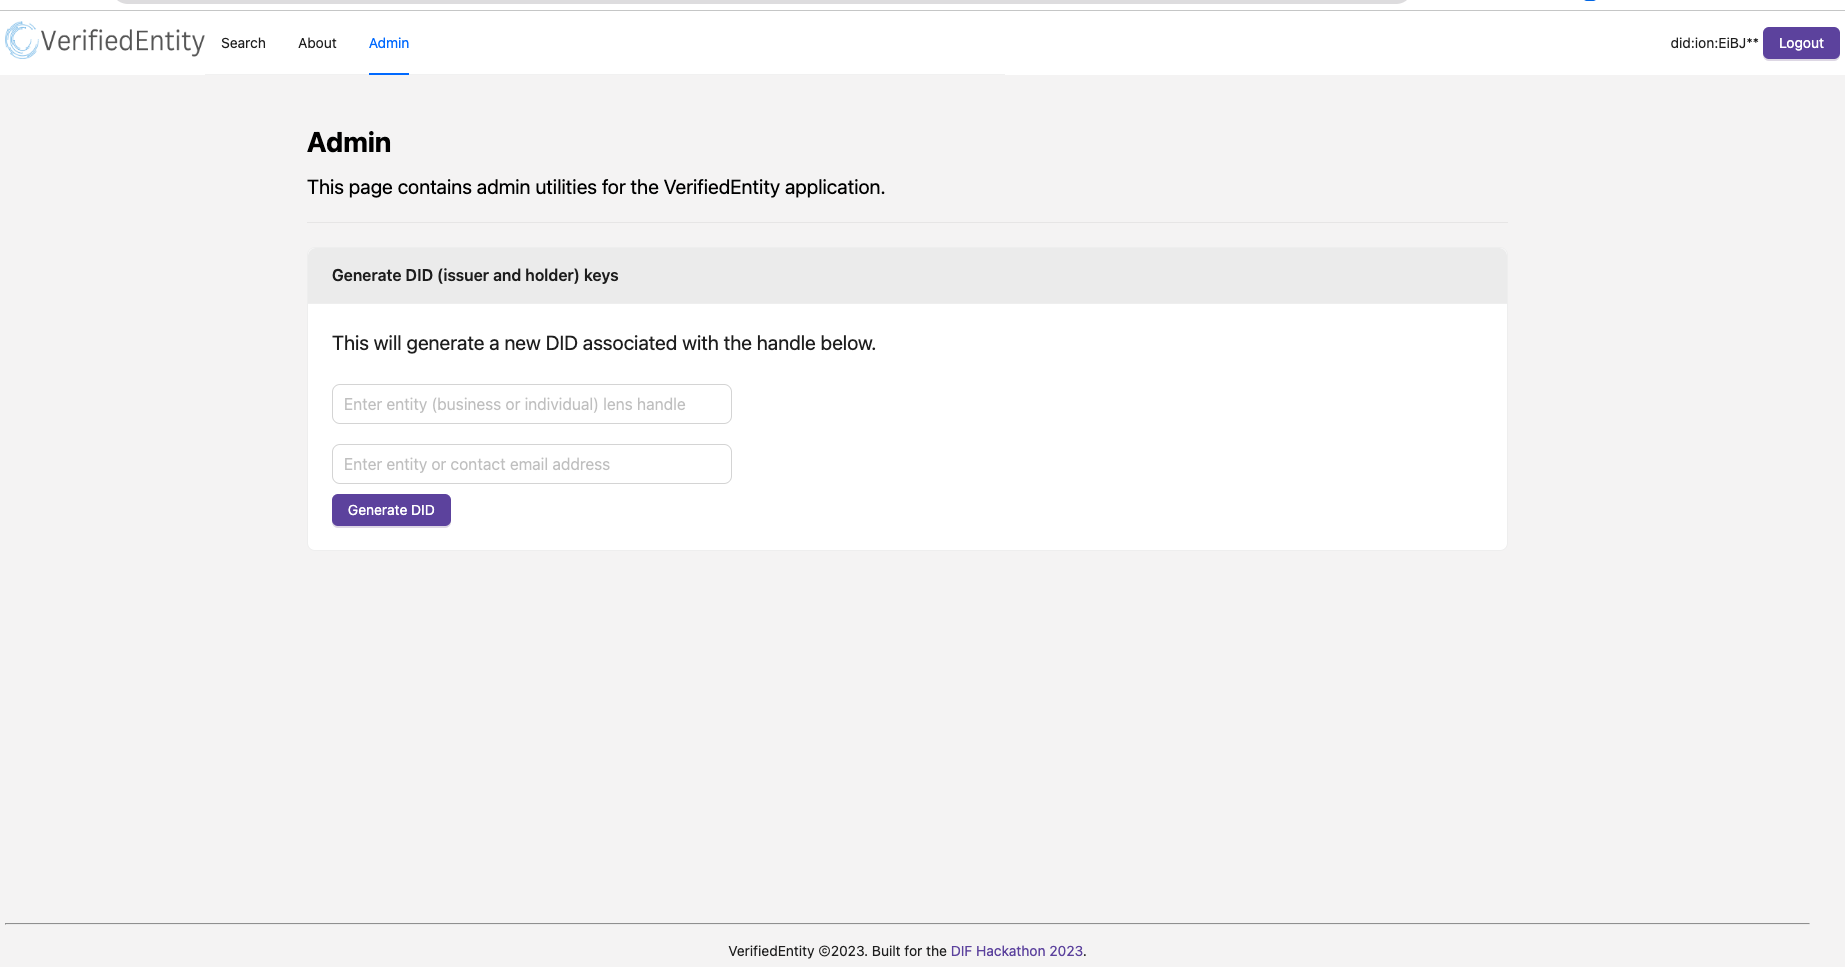
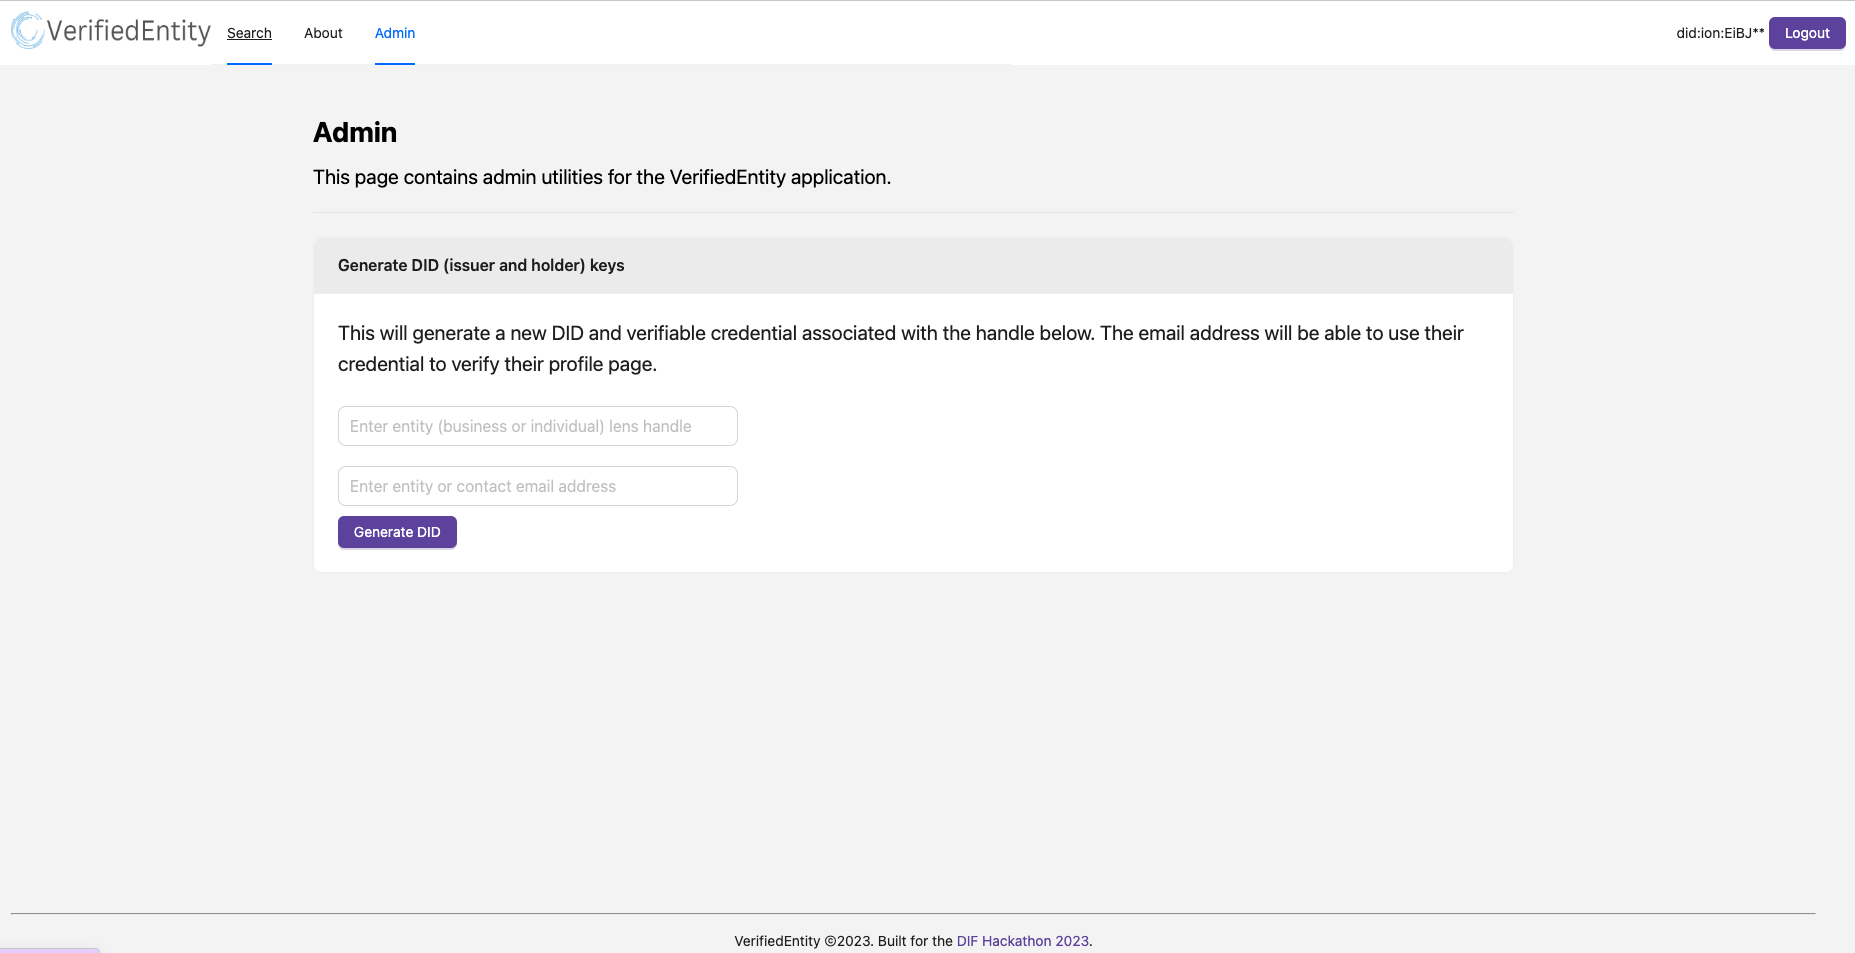
add copy

diff --git a/app/lib/DidButton.js b/app/lib/DidButton.js
@@ -1,44 +1,60 @@
-'use client'
+'use client';
 
-import { useEffect, useState } from "react";
-import { Button, Modal } from "antd";
-import { abbreviate } from "../util";
-import { useDidContext } from "../context/DidProvider";
-
+import { useEffect, useState } from 'react';
+import { Button, Modal } from 'antd';
+import { abbreviate } from '../util';
+import { useDidContext } from '../context/DidProvider';
 
 const DidButton = ({ children, useExisting }) => {
     const [loading, setLoading] = useState();
-    const { connect, logout, did } = useDidContext()
+    const { connect, logout, did } = useDidContext();
 
     const login = async (newDid) => {
-        setLoading(true)
+        setLoading(true);
         try {
-            await connect(newDid)
-
+            await connect(newDid);
         } catch (error) {
-            console.error('error', error)
+            console.error('error', error);
         } finally {
-            setLoading(false)
+            setLoading(false);
         }
-    }
+    };
 
     if (did) {
+        const copyDid = (e) => {
+            e.preventDefault();
+            navigator.clipboard.writeText(did);
+            alert('Copied DID to clipboard');
+        };
+
         return (
             <span>
-                {abbreviate(did, 12)}&nbsp;
-                <Button type='primary' onClick={logout} loading={loading} disabled={loading}>
+                <a onClick={copyDid}>{abbreviate(did, 12)}</a>
+                &nbsp;
+                <Button
+                    type="primary"
+                    onClick={logout}
+                    loading={loading}
+                    disabled={loading}
+                >
                     Logout
                 </Button>
             </span>
-        )
+        );
     }
 
-    return (<span>
-        <Button type='primary' onClick={login} loading={loading} disabled={loading}>
-            Signin
-        </Button>&nbsp;
-    </span>
-
+    return (
+        <span>
+            <Button
+                type="primary"
+                onClick={login}
+                loading={loading}
+                disabled={loading}
+            >
+                Signin
+            </Button>
+            &nbsp;
+        </span>
     );
-}
+};
 export default DidButton;

diff --git a/app/admin/page.js b/app/admin/page.js
@@ -6,6 +6,7 @@ import { APP_NAME } from '../constants';
 import { postGenerateDid, postGenerateVC } from '../util/api';
 import { createMetadataForHandle, getMetadataForHandle } from '../util/tbd';
 import { useDidContext } from '../context/DidProvider';
+import { listingUrl } from '../util';
 
 export default function Admin() {
     const [loading, setLoading] = useState(false);
@@ -44,6 +45,7 @@ export default function Admin() {
                 res = await createMetadataForHandle(web5, handle);
                 console.log('generated', res);
                 metadata = await getMetadataForHandle(web5, handle);
+                metadata['profilePage'] = listingUrl(handle);
                 // res['metadata'] = res;
             }
             updateResult('did', metadata);
@@ -87,8 +89,9 @@ export default function Admin() {
 
             <Card title="Generate DID (issuer and holder) keys">
                 <p>
-                    This will generate a new DID associated with the handle
-                    below.
+                    This will generate a new DID and verifiable credential
+                    associated with the handle below. The email address will be
+                    able to use their credential to verify their profile page.
                 </p>
 
                 <Input

diff --git a/app/util/index.js b/app/util/index.js
@@ -22,7 +22,7 @@ export const formatCurrency = (amount, symbol) => {
 };
 
 export const isAdminDID = (did) => {
-    return true || did === process.env.NEXT_PUBLIC_ADMIN_DID;
+    return did === process.env.NEXT_PUBLIC_ADMIN_DID;
 };
 
 export const listingUrl = (listingId) =>

diff --git a/app/lib/UiLayoutWrapper.js b/app/lib/UiLayoutWrapper.js
@@ -15,7 +15,6 @@ function UiLayoutWrapper({ children }) {
     const { did } = useDidContext();
 
     const pathname = usePathname();
-    const isListingPage = pathname.startsWith('/profile');
     const menuItems = [];
     menuItems.push({
         key: '/search',
